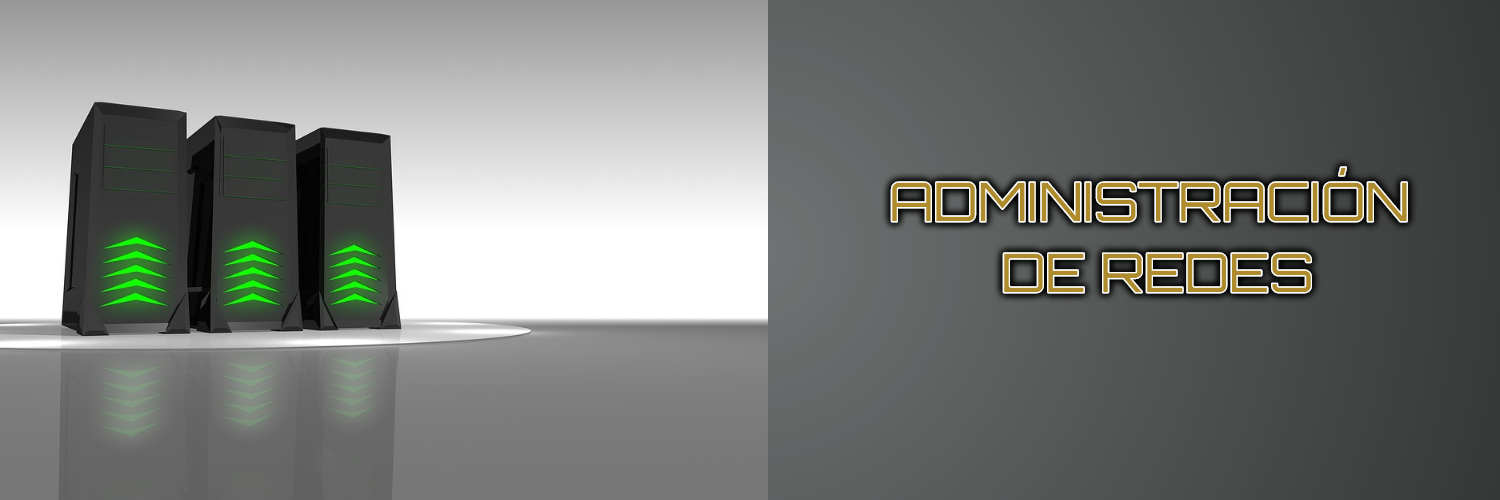
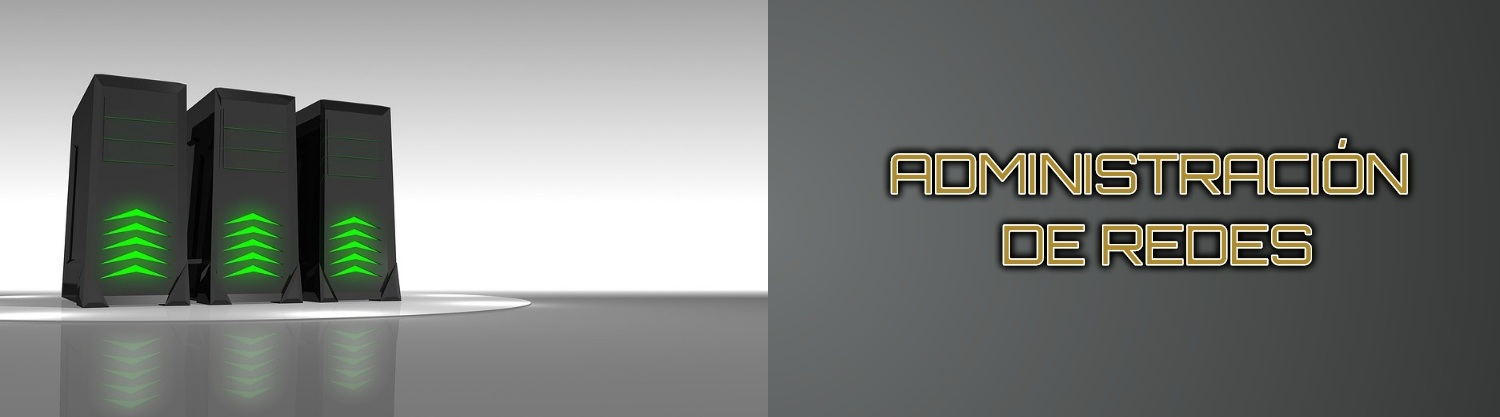
commit2

diff --git a/index.html b/index.html
@@ -11,7 +11,7 @@
 <body>
 	<div id="contenedor">
 		<header>
-			<img src="img/FotoJet.jpg" width="960px" height="250px">
+			<img src="img/FotoJet.jpg" width="960px" height="180px">
 		</header>
 
 		<nav>

diff --git a/introduccion.html b/introduccion.html
@@ -11,7 +11,7 @@
 <body>
 	<div id="contenedor">
 		<header>
-			<img src="img/FotoJet.jpg" width="960px" height="250px">
+			<img src="img/FotoJet.jpg" width="960px" height="180px">
 		</header>
 
 		<nav>

diff --git a/css/estilos.css b/css/estilos.css
@@ -17,7 +17,7 @@ body{
 }
 
 header{
-height: 250px;
+height: 180px;
 width: 960;
 background: #000;
 color:#fff;
